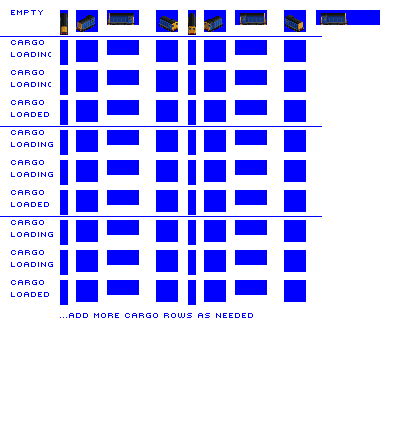
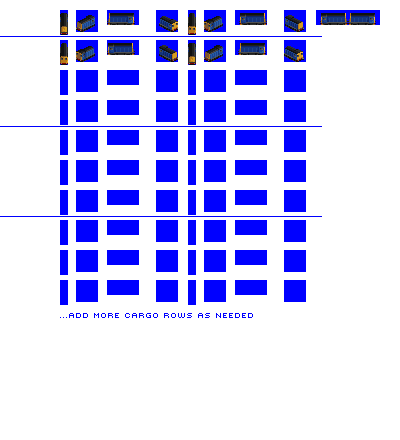
Change: always show cabs at outer ends for Chinook

diff --git a/src/vehicles/chinook.py b/src/vehicles/chinook.py
@@ -19,13 +19,13 @@ consist = EngineConsist(id = 'chinook',
 consist.add_unit(DieselLoco(consist = consist,
                         weight = 73,
                         vehicle_length = 7,
-                        spriterow_num = 0),
-                        repeat=2)              
+                        spriterow_num = 0))              
+
+consist.add_unit(DieselLoco(consist = consist,
+                        weight = 73,
+                        vehicle_length = 7,
+                        spriterow_num = 1))              
 
 consist.add_model_variant(intro_date=0,
                        end_date=global_constants.max_game_date,
                        spritesheet_suffix=0)
-
-consist.add_model_variant(intro_date=0,
-                       end_date=global_constants.max_game_date,
-                       spritesheet_suffix=1)
